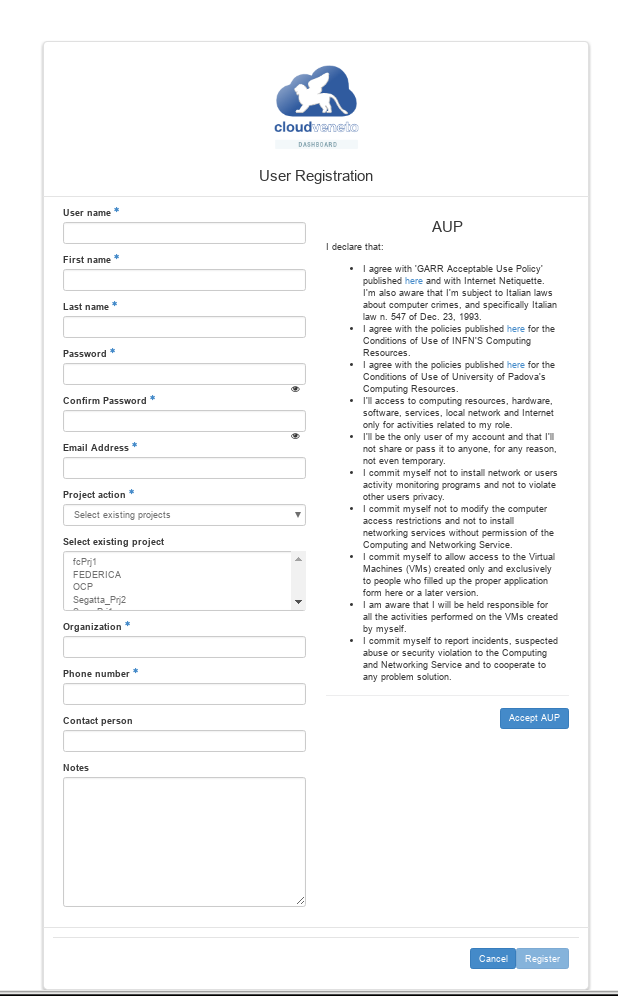
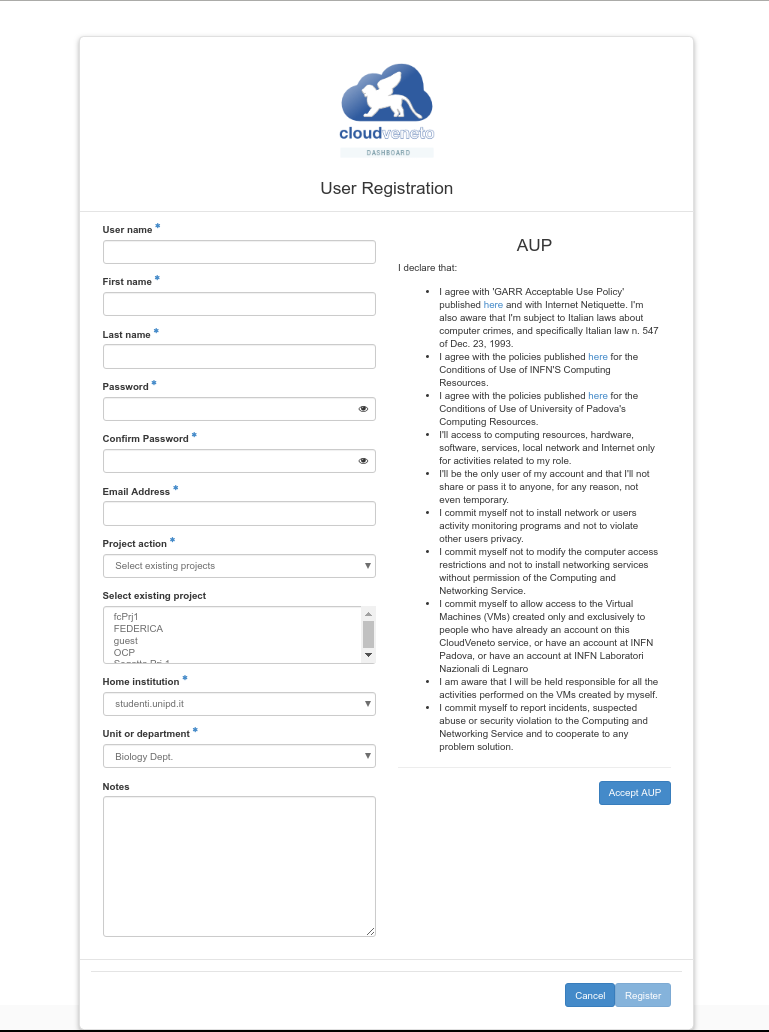
User registration in Rocky

diff --git a/source/Registration.rst b/source/Registration.rst
@@ -46,7 +46,6 @@ Enrollment procedure through INFN AAI or UniPD SSO
 ~~~~~~~~~~~~~~~~~~~~~~~~~~~~~~~~~~~~~~~~~~~~~~~~~~
 .. _Enrollment:
 
-.. TBC: Rivedere testo e figure
 
 Once authenticated on your Identity Provider system, you will be
 redirected to a form like this:
@@ -58,7 +57,7 @@ redirected to a form like this:
 
 
 Fill the form with the required information. In particular please specify 
-your home institution and the relevant unit/department.
+the relevant unit/department of your home institution.
 
 For what concerns the **Project Action** (projects have been discussed in 
 :ref:`Projects<projects>`)
@@ -133,7 +132,6 @@ Apply for an account using Username and Password
 ~~~~~~~~~~~~~~~~~~~~~~~~~~~~~~~~~~~~~~~~~~~~
 .. _ApplyUsingUserPasswd:
 
-.. TBC rivedere testo e immagini
 
 If and only if you don't have an account on the UniPD SSO or INFN AAI,
 click on the green icon on the right:
@@ -242,6 +240,9 @@ the OpenStack dashboard and clicking on **Subscribe to project** as depicted
 on the following image:
 
 
+.. image:: ./images/ProjectRequest.png
+   :align: center
+
 
 Fulfill your request selecting the relevant choice under the **Project
 action** dropdown list.
@@ -280,7 +281,7 @@ To approve a membership request, click on the **Approve** button (in
    :align: center
 
 
-Set the expiration date of the account, and click on the **Ok&& button to
+Set the expiration date of the account, and click on the **Ok** button to
 approve the request.
 
 If, instead, you want to reject the request, select **Reject** in **Actions**.
@@ -304,7 +305,6 @@ the relevant method and access the **Identity** |rarr| **Project Members**
 panel. The
 list of users affiliated to your project will appear:
 
-.. TBC modificare figura
 
 .. image:: ./images/IdentityProjectMembers.png
    :align: center
@@ -323,6 +323,8 @@ you manage.
 
 Manage account renewals (only for project managers)
 ---------------------------------------------------
+
+.. QUI
 When the affiliation of a user for a project is expiring, as manager of
 that project you will receive an e-mail such as this one:
 
